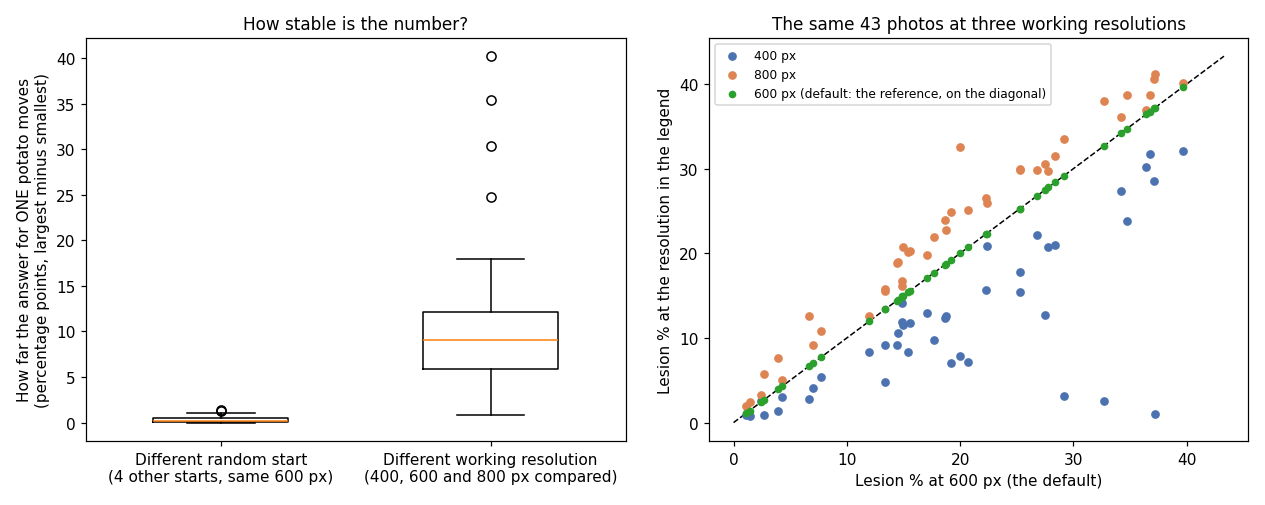
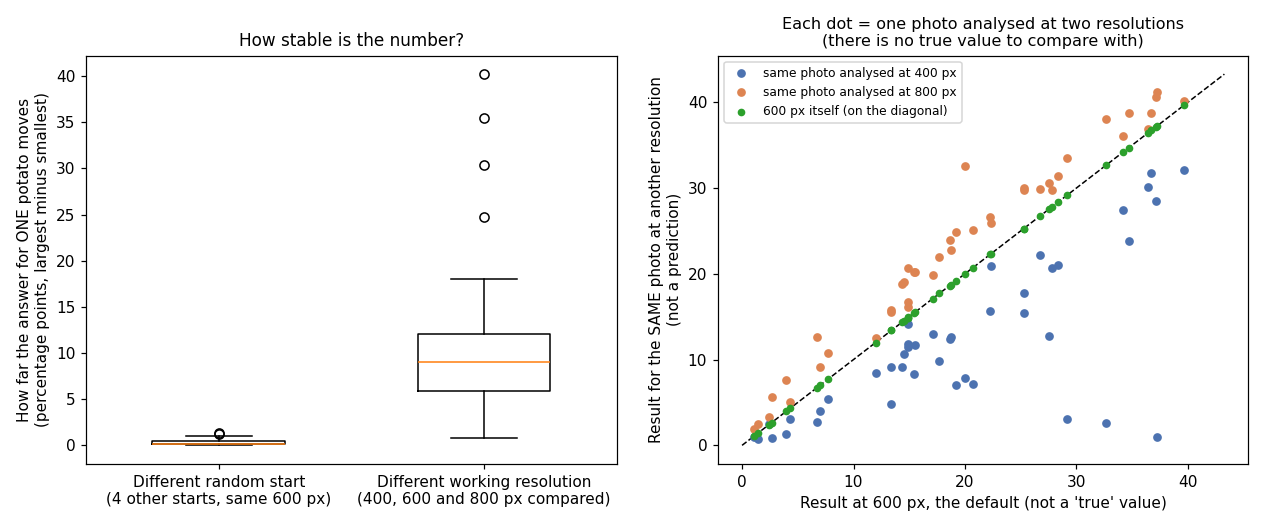
README: make clear that the stability plot is not real-vs-predicted
Text and figure only.

diff --git a/README.md b/README.md
@@ -53,7 +53,7 @@ Over the 43 photos the lesion area found goes from 1.1 % to 39.6 % of the potato
 ![How much the answer moves](assets/stability.png)
 
   - **A different random start for K-Means** barely matters: the percentage of a photo moves by about **0.2 points** (at most 1.4 points).
-  - **A different working resolution matters a lot.** I compared three: 400, 600 (the default) and 800 pixels wide. In the right-hand plot the 600 px result is the diagonal itself, so the further a dot is from the dashed line, the more that photo changed. Across the three, the percentage of one photo moves by about **9 points** (up to 40). Compared with the 600 px result, at 800 px the ranking of the potatoes stays almost the same (rank agreement 0.99), but at 400 px it changes more (0.69), and the numbers shift (on average −7 points at 400 px and +3 points at 800 px). So the number is tied to the 600 px setting. Always analyse every photo the same way, and do not compare with percentages made at another size.
+  - **A different working resolution matters a lot.** I compared three: 400, 600 (the default) and 800 pixels wide. In the right-hand plot each dot is one photo analysed twice: the horizontal axis is its result at 600 px and the vertical axis is its result at 400 or 800 px. **This is not "real versus predicted"**: there is no real value for these photos, only the same photo measured at different resolutions. The 600 px result is the diagonal itself, so the further a dot is from the dashed line, the more that photo changed. Across the three, the percentage of one photo moves by about **9 points** (up to 40). Compared with the 600 px result, at 800 px the ranking of the potatoes stays almost the same (rank agreement 0.99), but at 400 px it changes more (0.69), and the numbers shift (on average −7 points at 400 px and +3 points at 800 px). So the number is tied to the 600 px setting. Always analyse every photo the same way, and do not compare with percentages made at another size.
 - **A known false alarm:** in most of the photos shown above, the narrow dark strip where the two potatoes touch (a shadow) is marked as lesion. It adds a little to the total.
 - **It always makes two piles.** K-Means splits any potato in two, whether it has lesions or not. In a test with an artificial, perfectly lesion-free potato (with a little noise added) it reported 94.5 % lesions; in the same test with painted lesions covering 12.1 % it reported 14.7 %. Real photos behave better than this artificial one, but it shows that the method cannot say "there are no lesions" by itself.
 
